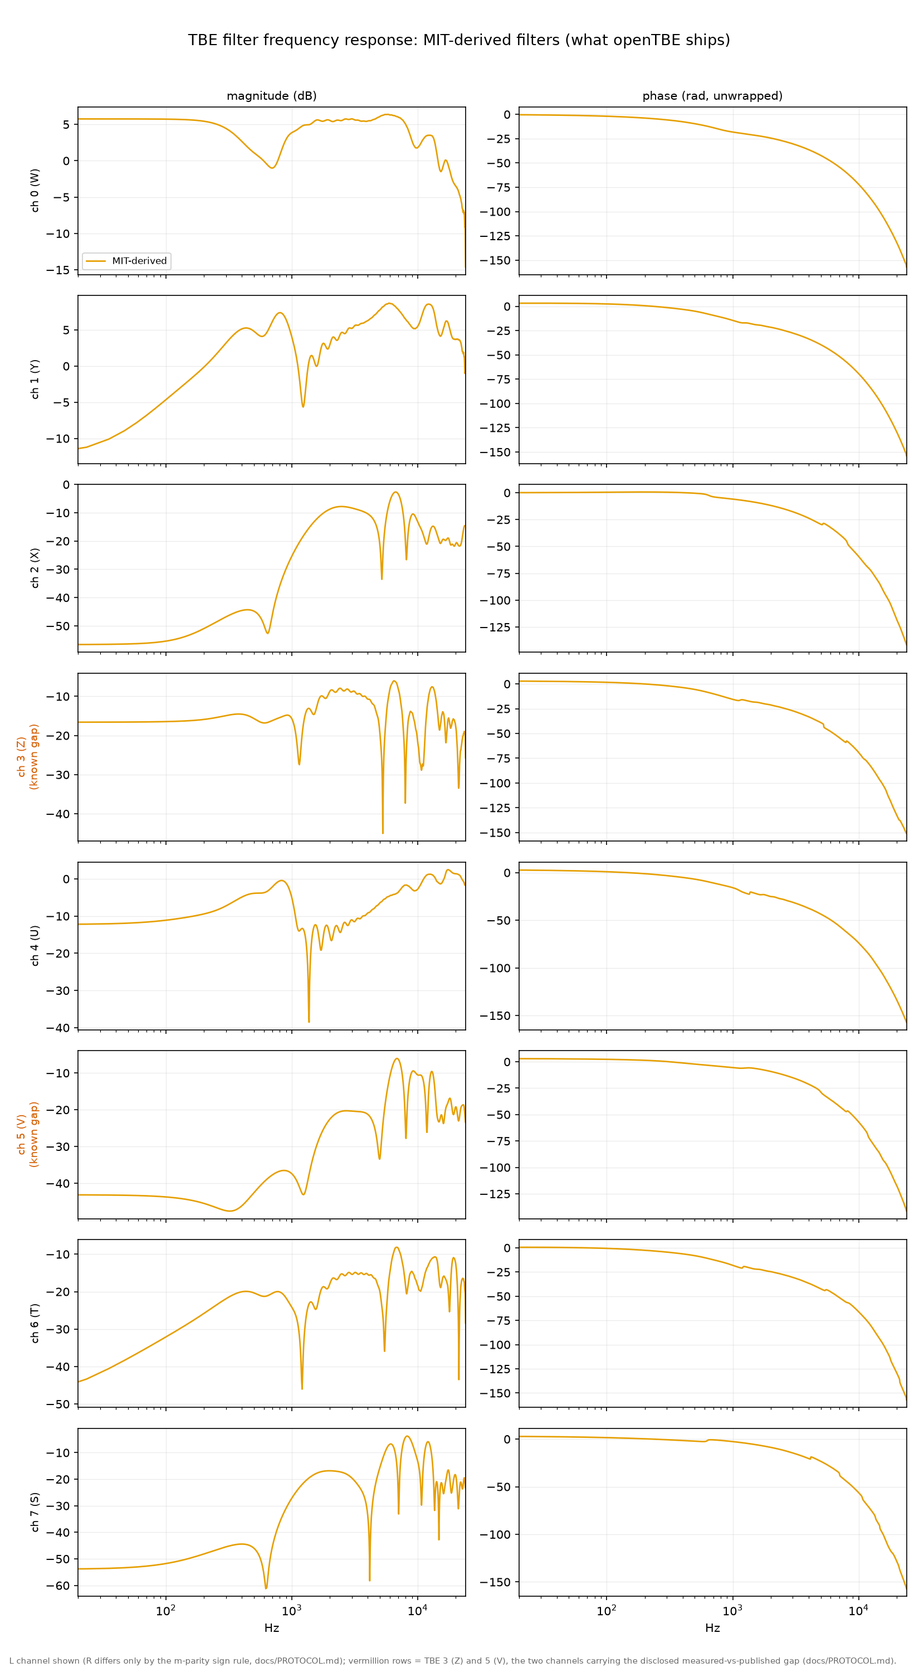
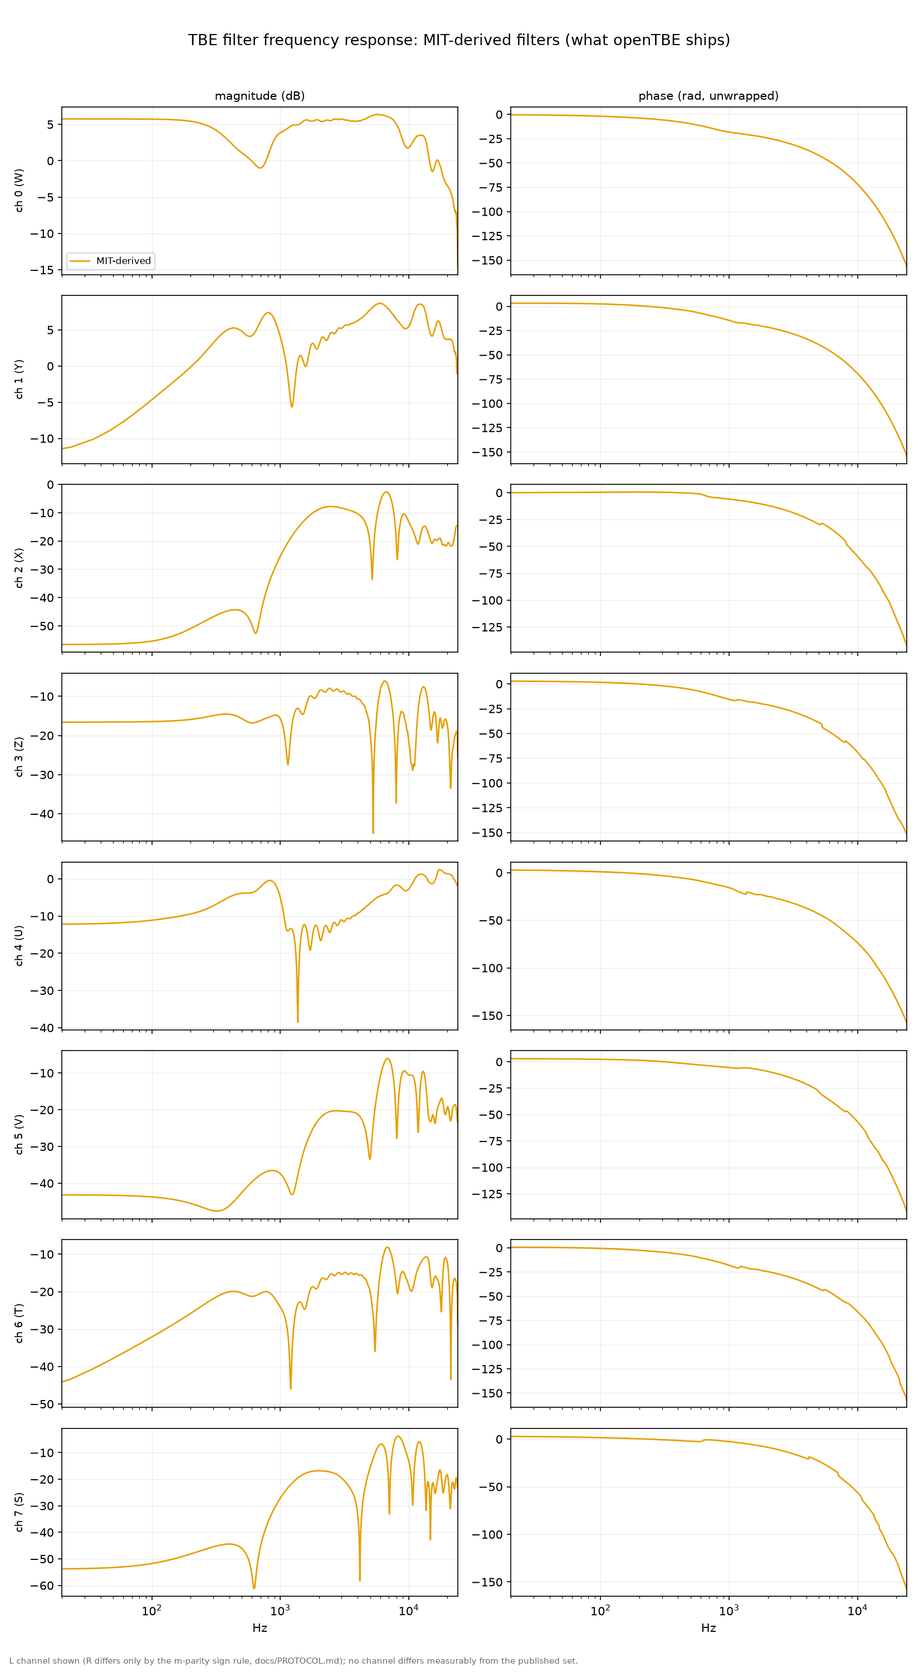
Fix what the final audit found: 52 confirmed, 15 of them blockers
An adversarial audit of the cleaned repo, four domains with every
finding independently verified, showed the 3OA cleanup had been
incomplete. Almost all of it was the same class: 2OA-era text left
behind in places the earlier grep did not reach.

The worst was live code, not prose. plot_validation.py still had
KNOWN_GAP_CHANNELS = {3, 5}, so the committed public figure
filter_comparison.png labelled two channels '(known gap)' in warning
colour and footnoted them as diverging from the published set. They do
not diverge: they sit at -143.7 and -147.5 dB against the SDK, and
channel 5 is the best of the eight. A reader would have met a headline
of -134 dB beside a figure asserting two defective channels.

The same figure module also plotted stage5, the configuration whose
ACN 6 filter is deconvolved from an SDK render, under a caption
crediting Meta's published filters. That misstated the provenance of
the README's lead image; it now plots the shipped configuration.

docs/upstream/README.md, whose whole job is to say where the shipped
filters come from, named the 2OA file and a script that no longer
exists. get_sdk_filters.py told users in its docstring and in its
terminal output that the no-SDK decoder was ~108 dB worse than it is.
REPRODUCING.md opened with the same stale pair of numbers. PROTOCOL.md
carried a -50 dB pitch/roll floor that no longer exists, several
figures off by a few tenths, and a preservation notice whose stated
[…]

diff --git a/tools/get_sdk_filters.py b/tools/get_sdk_filters.py
@@ -1,26 +1,33 @@
-"""Measure the SDK's real filters, checking every prerequisite and saying
-exactly what to do about each one that is missing.
+"""Re-run openTBE's measurements against your own Audio360 SDK copy.
 
 This is the second of two filter scripts:
 
-    tools/get_mit_filters.py   always works, needs only this repository,
-                               gives a decoder accurate to about -26 dB
-                               against the SDK
-    tools/get_sdk_filters.py   this one; needs an Audio360 SDK, and takes
-                               the decode to about -131 dB
+    tools/get_mit_filters.py   what you normally want. Needs only this
+                               repository, takes seconds, and produces the
+                               filters openTBE ships, which reproduce the SDK
+                               to about -134 dB.
+    tools/get_sdk_filters.py   this one. Needs an Audio360 SDK, and exists so
+                               the claim above can be checked independently
+                               rather than believed.
 
-Run it and it walks the prerequisites in order, stopping at the first one
-that is not satisfied and telling you the specific command or link that
-fixes it. Once everything is in place it builds the helper binaries and runs
-the measurements without further input.
+It walks the prerequisites in order, stops at the first one that is not
+satisfied, and prints the specific command or link that fixes it. Once
+everything is in place it builds the helper binaries and runs the
+measurements without further input.
 
     python tools/get_sdk_filters.py
     python tools/get_sdk_filters.py --sdk /path/to/sdk
     python tools/get_sdk_filters.py --check     # diagnose only, change nothing
 
-openTBE does not download the SDK. That is deliberate and the reasoning is
-in docs/REPRODUCING.md, "On not downloading the SDK". Everything measured
-lands in data/, which is gitignored, and is never redistributed.
+Nothing here improves the decode. Before openTBE was corrected to Meta's 3OA
+coefficients the measured filters really were needed for accuracy; they are
+not any more, and the renderers ignore them (tools/render_native.py defaults
+to the shipped set unconditionally). What this produces is an independent
+cross-check, and the inputs for tools/plot_validation.py --include-measured.
+
+openTBE does not download the SDK. The reasoning is in docs/REPRODUCING.md,
+"On not downloading the SDK". Everything measured lands in data/, which is
+gitignored, and is never redistributed.
 """
 
 from __future__ import annotations
@@ -73,9 +80,10 @@ def blocked(problem: str, fix: str) -> int:
     for line in fix.rstrip().splitlines():
         print(f"  {line}" if not line.startswith("  ") else line)
     print("\n  Then run this script again.")
-    print("\n  Meanwhile openTBE still works: tools/get_mit_filters.py gives "
-          "a\n  decoder accurate to about -26 dB against the SDK, which needs "
-          "none of\n  the above.")
+    print("\n  This does not hold openTBE back: tools/get_mit_filters.py "
+          "already gives\n  a decoder accurate to about -134 dB against the "
+          "SDK, and needs none\n  of the above. This script only re-measures "
+          "that independently.")
     return 1
 
 
@@ -91,6 +99,8 @@ def find_sdk(explicit: str | None) -> tuple[Path | None, list[Path]]:
     partial: list[Path] = []
     cands: list[Path] = []
     if explicit:
+        # only the directory the user named; the search list below is for the
+        # no-argument case, and reporting it here would be misleading
         cands = [Path(explicit).expanduser()]
     else:
         env = os.environ.get("OPENTBE_ORACLE_DIR")
@@ -238,8 +248,7 @@ def main() -> int:
     if subprocess.run([sys.executable, str(HERE / "phase4_headtrack.py")]
                       ).returncode != 0:
         print("\n  That did not finish. The step 5 measurement is still "
-              "good, which\n  leaves yaw fully accurate and pitch/roll at "
-              "about -50 dB.")
+              "good; the\n  ACN 6 cross-check simply did not run.")
 
     print("\n" + "=" * 60)
     have_m, have_r = MEASURED_NPZ.exists(), R_NPZ.exists()
@@ -248,12 +257,15 @@ def main() -> int:
     print(f"  [{'x' if have_r else ' '}] recovered ACN 6       "
           f"{R_NPZ.relative_to(ROOT)}")
     if have_m and have_r:
-        print("\n  Done: about -131 dB against the SDK at any orientation.")
+        print("\n  Done. Both cross-checks are on disk. Compare them against")
+        print("  the shipped filters with:")
+        print("    python tools/get_mit_filters.py --verify")
+        print("    python tools/plot_validation.py --include-measured")
     elif have_m:
-        print("\n  Partly done: about -131 dB on yaw, about -50 dB with "
-              "pitch or roll.")
-    print("  The renderers pick these up automatically and print which set "
-          "they used.")
+        print("\n  Partly done: the impulse-response matrix is measured, "
+              "the ACN 6\n  cross-check is not.")
+    print("\n  The renderers are unaffected either way: they use the shipped "
+          "filters.")
     return 0
 
 

diff --git a/tools/plot_validation.py b/tools/plot_validation.py
@@ -71,11 +71,12 @@ PHASE5_NPZ = DATA_DIR / "phase5_trajectory_residuals.npz"
 # TBE channel index -> letter and the ACN harmonic it carries, from
 # docs/PROTOCOL.md ("The MIT-derived filter set").
 TBE_LABELS = ["W", "Y", "X", "Z", "U", "V", "T", "S"]
-# TBE 3 (Z) and TBE 5 (V): "a real but disclosed gap" per README.md /
-# docs/PLAN.md -- the proprietary SDK's filters for these two harmonics have
-# differ from the published ones in the measured decode, cause open; see
-# docs/PROTOCOL.md, "Chasing the two weak channels".
-KNOWN_GAP_CHANNELS = {3, 5}
+# No channel is singled out. TBE 3 (Z) and TBE 5 (V) were once flagged as a
+# "known gap"; that was an artefact of comparing against Meta's 2OA
+# coefficients rather than the 3OA set the SDK uses. With the right file every
+# channel matches the SDK measurement to the float floor, and channel 5 is the
+# best of the eight (docs/PROTOCOL.md).
+KNOWN_GAP_CHANNELS: set[int] = set()
 
 # Okabe-Ito colorblind-safe categorical pair: measured (blue) vs MIT-derived
 # (orange), used consistently across figures. Vermillion flags the two known
@@ -142,7 +143,7 @@ def plot_filter_comparison(include_measured: bool = False) -> None:
               "what any clone reproduces without the SDK. The measured "
               "overlay is a local-only view (--include-measured), since the "
               "measured filters are proprietary-derived and never published; "
-              "see README.md, 'Filter provenance'.")
+              "see README.md, 'Provenance, and what is not published'.")
 
     n_fft = 4096
     freqs = rfftfreq(n_fft, d=1.0 / fs)
@@ -188,12 +189,7 @@ def plot_filter_comparison(include_measured: bool = False) -> None:
     axes[0, 0].legend(loc="lower left", fontsize=8)
     axes[-1, 0].set_xlabel("Hz")
     axes[-1, 1].set_xlabel("Hz")
-    gap_note = ("vermillion rows = TBE 3 (Z) and 5 (V), the two channels "
-                "where the SDK's measured filters diverge from what Meta "
-                "later published" if have_measured else
-                "vermillion rows = TBE 3 (Z) and 5 (V), the two channels "
-                "carrying the disclosed measured-vs-published gap "
-                "(docs/PROTOCOL.md)")
+    gap_note = "no channel differs measurably from the published set"
     fig.text(0.01, 0.005,
              "L channel shown (R differs only by the m-parity sign rule, "
              f"docs/PROTOCOL.md); {gap_note}.",
@@ -219,7 +215,12 @@ def plot_orientation_heatmap() -> None:
     # Every configuration this figure used to compare now coincides: the
     # shipped filters are the SDK's own published ones, so there is a single
     # curve to draw. stage5 is the grid as measured with them.
-    vals = d["stage5_db_recovered_r"]
+    # The shipped configuration, all nine harmonics from Meta's published 3OA
+    # set. NOT stage5, which substitutes an ACN 6 filter deconvolved from an
+    # SDK render and is therefore proprietary-derived: plotting that under a
+    # caption crediting published filters would misstate the provenance.
+    vals = d["shipped_db_mit_only"] if "shipped_db_mit_only" in d.files \
+        else d["stage3_db_published_r"]
 
     order_i = np.argsort(vals)[::-1]          # worst at top
     labels = [f"yaw {yaw[i]:g}, pitch {pitch[i]:g}, roll {roll[i]:g}"

diff --git a/tools/phase4_headtrack.py b/tools/phase4_headtrack.py
@@ -1,21 +1,22 @@
 """Phase 4: head-tracked (rotated-listener) decode, verified per orientation.
 
-Native chain: TBE -> ACN harmonics (per-channel gains, R absent enters as
-zero) -> order-2 real-SH rotation (tools/rotation.py) -> fixed
-Ambisonics-to-binaural decode (mono IR per harmonic, L/R combined by the
-sign of m). The ACN-domain decode filters come from the measured TBE
-capture (times the encode gains, undoing the TBE scaling) for the 8
-harmonics TBE carries, and from Meta's MIT-published set for harmonic 6
-(R), which TBE lacks but which receives energy under pitch and roll.
+Native chain: TBE -> ACN harmonics (per-channel gains) -> order-2 real-SH
+rotation (tools/rotation.py) -> fixed Ambisonics-to-binaural decode (mono IR
+per harmonic, L/R combined by the sign of m). All nine ACN decode filters
+come from Meta's published 3OA coefficients, ACN 6 included: TBE cannot
+carry that harmonic, but rotation feeds it under pitch and roll, and the
+published set supplies it.
 
-The oracle side uses bin/tbe_render_rot (build per the header comment in
-tools/tbe_render_rot.cpp), which is the study's helper with the listener
-rotation taken from the command line.
+The oracle side uses bin/tbe_render_rot, which is the study's helper with the
+listener rotation taken from the command line.
 
 Stage 1 fits the SDK's undocumented yaw/pitch/roll conventions (sign per
 axis, composition order) against the oracle using single-axis probes.
 Stage 2 measures the native-vs-oracle residual across an orientation grid
-with the fitted convention. Results go to docs/PROTOCOL.md.
+with the fitted convention. Stages 3 and 4 recover the SDK's own ACN 6
+filter by deconvolution and re-measure with it; that is now a cross-check
+rather than a necessity, since the published filter already lands at the
+float floor. Results go to docs/PROTOCOL.md.
 
 Usage: python tools/phase4_headtrack.py
 """
@@ -23,7 +24,6 @@ Usage: python tools/phase4_headtrack.py
 from __future__ import annotations
 
 import itertools
-import re
 import subprocess
 import sys
 import tempfile

diff --git a/tools/get_mit_filters.py b/tools/get_mit_filters.py
@@ -12,10 +12,11 @@ counts, before any audio is compared:
 
     2OA  {180, 184, 181, 77, 80, 179, 183, 84, 185}
     3OA  {180, 183, 182, 77, 73, 179, 183, 84, 185, ...}
-    measured, per TBE channel, mapped to ACN:
-         {180, 183, 182, 77, 73, 179, 183, 84, 185}
+    measured, per TBE channel, mapped to its ACN:
+         {180, 183, 182, 77, 73, 179,  --, 84, 185}
 
-Eight of eight match 3OA exactly. Against 2OA the per-channel residuals run
+Eight of eight match 3OA exactly (ACN 6 has no measured entry: TBE does not
+carry that harmonic, so phase 1 could not probe it). Against 2OA the per-channel residuals run
 -8 to -38 dB, which this project once wrote up as the SDK having a revised
 private filter set; against 3OA they run -136 to -149 dB, the float floor.
 See docs/PROTOCOL.md, "RESOLVED: the SDK uses the 3OA coefficient set".
@@ -168,9 +169,9 @@ def main() -> int:
         ir_len=h.shape[1],
         source="facebookarchive/Audio360 AmbiBinauralCoefficients3OA.cpp, MIT",
         source_commit="171bfbfa69c4724026ef8d06a0f5155b1a9de32b",
-        note="TBE-domain filters derived from Meta's published Ambisonics "
-             "IRs; see docs/PLAN.md and docs/PROTOCOL.md for the derivation "
-             "and its known limits on TBE channels 3 (Z) and 5 (V).",
+        note="TBE-domain filters derived from Meta's published 3OA Ambisonics "
+             "IRs. Reproduces the Audio360 SDK to about -134 dB; see "
+             "docs/PROTOCOL.md for the derivation and the measurements.",
     )
     print(f"-> {out}")
 

diff --git a/tools/oracle.py b/tools/oracle.py
@@ -1,13 +1,13 @@
 """Drive the Audio360 SDK reference decoder (the oracle) from Python.
 
-The oracle is the `tbe_render` helper built in the immersive-formats-evaluation
-study (pipeline/tbe/): it feeds raw float32 through the SDK's offline
-getAudioMix() path with the audio device disabled. The SDK dylib is x86_64
+The oracle is a small helper that feeds raw float32 through the SDK's
+offline getAudioMix() path with the audio device disabled. This repository
+builds its own (bin/tbe_render_rot, from tools/tbe_render_rot.cpp) and
+prefers it; the sibling study's `tbe_render` is accepted as a fallback. The SDK dylib is x86_64
 only, so on Apple Silicon the helper runs under Rosetta via `arch -x86_64`.
 
-The oracle directory is resolved from the OPENTBE_ORACLE_DIR environment
-variable, which must be set: no local path is assumed. It must contain the
-built `tbe_render` binary next to the SDK's `lib/` directory.
+OPENTBE_ORACLE_DIR is consulted only for that fallback; when
+bin/tbe_render_rot exists it is used and the variable is not read.
 
 Known behaviour, measured on 2026-08-14 (SDK 1.7.12, fs 48000, block 512):
 the engine discards roughly the first 7 blocks of the stream during warm-up,

diff --git a/tools/render_native.py b/tools/render_native.py
@@ -1,7 +1,8 @@
-"""Native TBE-to-binaural renderer: convolution with the captured IR matrix.
+"""Native TBE-to-binaural renderer: convolution with the shipped IR matrix.
 
-Reproduces the oracle's fixed-head decode without the SDK: the output is the
-sum over channels of the input convolved with the captured impulse responses,
+Reproduces the SDK's fixed-head decode without the SDK: the output is the
+sum over channels of the input convolved with the filter set generated from
+Meta's published 3OA coefficients (tools/get_mit_filters.py),
 time-advanced by the oracle's warm-up constant so the two outputs align
 sample for sample. Runs natively on any CPU; no Rosetta, no dylib.
 

diff --git a/tools/tbe_matrix.py b/tools/tbe_matrix.py
@@ -7,8 +7,9 @@ whole encode is a diagonal 16x8 matrix and the decode is its reciprocal.
 
 ACN 6 is absent. That is the harmonic conventionally written R, the
 second-order zonal (height) term, and it is why TBE is 8 channels rather than
-9. Nothing in the format can carry it, which is the whole reason phase 4 has
-to recover the SDK's R filter indirectly (docs/PROTOCOL.md).
+9. Nothing in the format can carry it, but rotation feeds it under pitch and
+roll, so a head-tracked decode still needs its filter. Meta's published 3OA
+set includes it (docs/PROTOCOL.md, phase 4).
 
 Provenance of the gains, in order of authority:
 

diff --git a/tools/encoder_oracle.py b/tools/encoder_oracle.py
@@ -36,7 +36,8 @@ Two practical limits, both measured rather than assumed:
 
 The Encoder is proprietary. Like the SDK oracle, it is used here only to
 observe behaviour, and nothing derived from it is published; see
-docs/PLAN.md on the licensing position and README.md, "Filter provenance".
+docs/PLAN.md on the licensing position and README.md, "Provenance, and
+what is not published".
 
 The install path is resolved from the OPENTBE_ENCODER environment variable,
 falling back to the default macOS install location.

diff --git a/tools/phase7_encode.py b/tools/phase7_encode.py
@@ -5,7 +5,7 @@ the same for the encode half, against the Encoder's own command-line
 interface (tools/encoder_oracle.py), so the shipped matrix rests on
 measurement rather than on a published table.
 
-Three stages:
+Four stages, run in the order 1, 2, 4, 3:
 
   1. First-order gains, losslessly. The Encoder converts TBE to first-order
      ambiX as 24-bit PCM, no codec in the path, so a least-squares fit of

diff --git a/docs/REPRODUCING.md b/docs/REPRODUCING.md
@@ -18,8 +18,9 @@ python tools/get_mit_filters.py    # always works, needs only this repo
 python tools/get_sdk_filters.py    # needs an Audio360 SDK
 ```
 
-The first gives a working decoder, accurate to about -26 dB against the SDK.
-The second takes that to about -131 dB, and walks every prerequisite in
+The first gives a decoder accurate to about -134 dB against the SDK, which
+is the float floor and needs nothing proprietary. The second re-runs the
+measurements against your own SDK copy, and walks every prerequisite in
 order, stopping at the first thing that is missing and printing the specific
 command or link that fixes it. `--check` diagnoses without changing
 anything. Everything below is the detail behind those two.
@@ -80,7 +81,7 @@ python tools/plot_validation.py
 `plot_validation.py` will report that it skipped three of four figures,
 naming the `data/*.npz` files it wanted. That is correct and expected: those
 come from measurements against proprietary software, and the measured data
-is deliberately never published (see README.md, "Filter provenance"). Tier 2
+is deliberately never published (see README.md, "Provenance, and what is not published"). Tier 2
 is how you generate them yourself.
 
 ---
@@ -144,9 +145,9 @@ years should mirror it.
 
 **You almost certainly do not need it.** Since the switch to Meta's 3OA
 coefficients, the filters openTBE ships reproduce the SDK to about -134 dB,
-the arithmetic's own floor, at every tested orientation. The SDK is now
-useful for independently re-running the measurements, not for getting an
-accurate decode.
+the arithmetic's own floor, at every tested orientation. The SDK is useful
+for independently re-running the measurements, not for getting an accurate
+decode.
 
 **Check your version**, because copies in circulation may differ and a
 different engine version may not reproduce these numbers exactly:
@@ -216,9 +217,9 @@ What each should report:
 |---|---|
 | `phase0_lti.py` | nine LTI tests pass; warm-up advance 3584 at block 512 |
 | `phase1_capture.py` | writes `data/tbe8_ir_48k_block512.npz`, two independent methods agreeing to about -128 dB |
-| `phase2_validate.py` | -134, -134 and -143 dB on the three pass/fail signals; the gate-stress probe differs by design |
+| `phase2_validate.py` | -134.2, -134.0 and -143.4 dB on the three pass/fail signals; the gate-stress probe differs by design |
 | `phase4_headtrack.py` | fitted convention `signs (-1,-1,1), order zyx`; worst orientation -132.1 dB across the 11-point grid |
-| `phase5_dynamic.py` | five cases, -113.7 to -132.0 dB |
+| `phase5_dynamic.py` | five cases, -113.7 to -132.4 dB |
 | `phase7_encode.py` | first-order gains 0.4886025; agreement with `sqrt((2l+1)/4pi)`; round trip at 1e-17; whole-file encode indistinguishable from the container's own floor |
 
 Phase 3 is not a script: it was the licensing decision that the shipped
@@ -278,7 +279,7 @@ could contribute; see README.md, "Future work".
 
 It would be easier to ship `data/tbe8_ir_48k_block512.npz` and let anyone
 check the figures against it. openTBE does not, and the reasoning is in
-README.md under "Filter provenance": residual dB figures are facts about how
+README.md under "Provenance, and what is not published": residual dB figures are facts about how
 the SDK behaves, which is what the observation right covers and what this
 project reports freely. The SDK's actual filter response is its engineered
 content, and redistributing that as a file would be handing out the

diff --git a/docs/PROTOCOL.md b/docs/PROTOCOL.md
@@ -133,7 +133,7 @@ The matrix is stored in `data/` as `tbe8_ir_48k_block512.npz`, together with
 the capture metadata (advance, block, probe position, SDK version). That
 path is gitignored and stays so: the licensing question was settled rather
 than deferred, and the decision is that the measured matrix is never
-published (docs/PLAN.md, and README.md under "Filter provenance").
+published (docs/PLAN.md, and README.md under "Provenance, and what is not published").
 
 A single-sample W impulse still yields its complete 180-sample response
 because the response fits inside the one-to-two-block hold before the gate
@@ -243,15 +243,17 @@ local measurement in the path: fixed head -134.2, -134.0 and -143.4 dB on
 the three phase 2 signals; time-varying rotation -113.7 to -132.4 dB across
 the five phase 5 cases.
 
-The rest of this section is kept as written, because the reasoning it
-records was sound given the wrong input file, and because the failure mode
-is worth preserving: two independent local measurements agreeing with each
+**Everything in the next section, "The MIT-derived filter set", was written
+against the 2OA file and is kept as written**, because the reasoning it
+records was sound given the wrong input, and because the failure mode is
+worth preserving: two independent local measurements agreeing with each
 other far better than either agreed with the published filter was correctly
 read as "the published filter is not what this engine runs", and incorrectly
 read as "the engine's filters were revised later". The third possibility,
-that the engine runs a different published set, went unconsidered.
+that the engine runs a different published set, went unconsidered. Read that
+section as history; the numbers above supersede its numbers.
 
-## The MIT-derived filter set
+## The MIT-derived filter set (written against 2OA; superseded above)
 
 `tools/get_mit_filters.py` derives a shippable TBE-domain filter set
 from Meta's own published, MIT-licensed Ambisonics-to-binaural coefficients

diff --git a/docs/upstream/README.md b/docs/upstream/README.md
@@ -11,8 +11,10 @@ commit `171bfbfa69c4724026ef8d06a0f5155b1a9de32b` (2018-10-19), unmodified,
 MIT licensed, "Copyright (c) 2018-present, Facebook, Inc.":
 
 - `AmbiBinauralCoefficients{2OA,3OA}.{cpp,hh}` - the published per-harmonic
-  impulse responses, both 44.1 and 48 kHz. `tools/generate_mit_filters.py`
-  parses the 2OA set to build openTBE's shipped filter set (see PLAN.md).
+  impulse responses, both 44.1 and 48 kHz. `tools/get_mit_filters.py`
+  parses the **3OA** set to build openTBE's shipped filter set. The 2OA
+  file is kept because openTBE compared against it by mistake for most of
+  its life, so the comparison stays re-runnable (docs/PROTOCOL.md).
   A first pass checked the measured impulse-response matrix against these
   by unconstrained least-squares projection (5.4e-4 relative residual
   energy at exact alignment); PLAN.md and PROTOCOL.md describe the more
@@ -21,7 +23,7 @@ MIT licensed, "Copyright (c) 2018-present, Facebook, Inc.":
   decoder: convolve each ACN harmonic with its mono IR, then combine
   harmonics with m >= 0 into L and R identically and harmonics with m < 0
   into L as +f and R as -f. This is the algorithm half of the derivation
-  in tools/generate_mit_filters.py and tools/phase4_headtrack.py.
+  in tools/get_mit_filters.py and tools/phase4_headtrack.py.
 
 ## Facebook360AudioTerms_2017-08-11.txt
 
